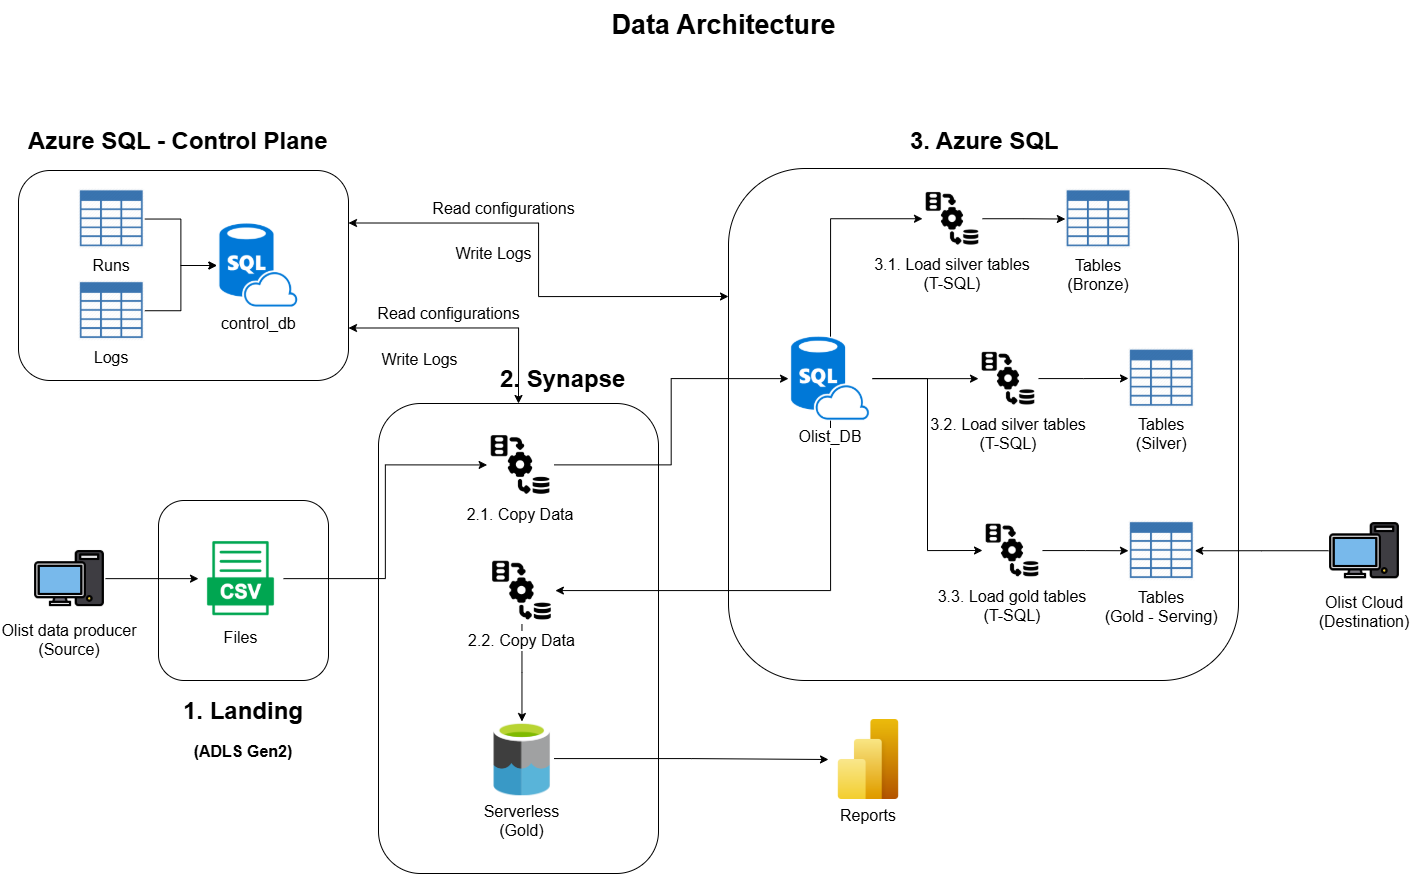
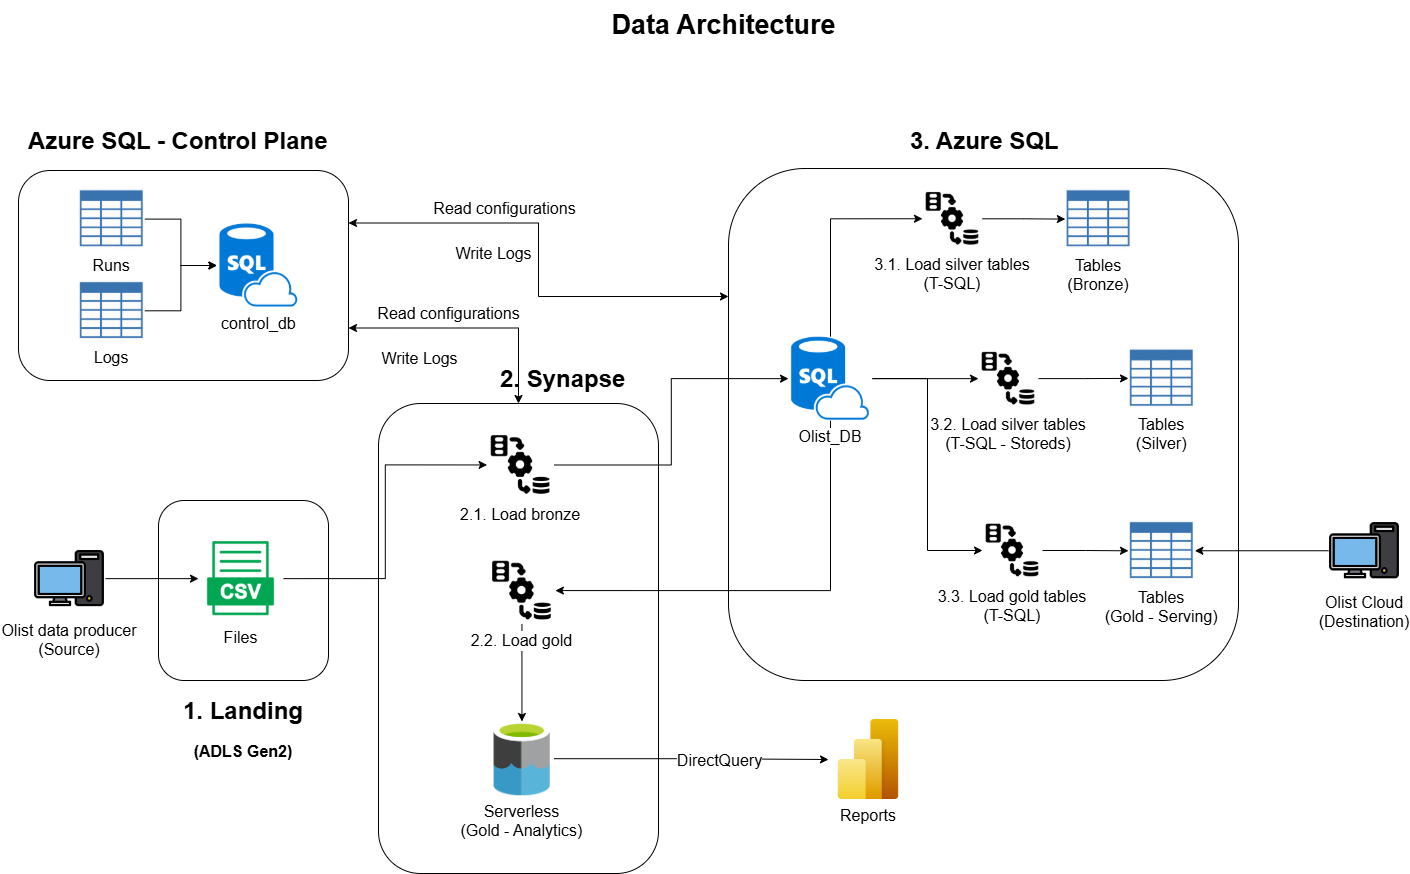
update README

diff --git a/azure_synapse/brazilian_e_commerce_azure_db/README.md b/azure_synapse/brazilian_e_commerce_azure_db/README.md
@@ -21,7 +21,7 @@ This architecture is designed for a business that receives **daily batch extract
 
 1. **E-commerce App** generates daily CSV extracts.
 2. Files are dropped into **ADLS Gen2 (Landing zone)**.
-3. On arrival, a **Synapse Data Pipeline** is triggered (event-based).
+3. A **Synapse Data Pipeline** is triggered based on an scheduled.
 4. Synapse performs loads raw data into **Azure SQL (Bronze)**.
 5. Transformations are executed in **Azure SQL** to produce:
    - `bronze` (raw, as received)
@@ -80,9 +80,9 @@ For BI and analytics, curated Gold is published to ADLS in columnar format (Parq
 * Cost-efficient, scalable analytics queries.
 * Clean interface for Power BI (DirectQuery) without managing dedicated pools.
 
-### 3.7. Event-triggered pipelines
+### 3.7. Scheduled-triggered pipelines
 
-Running the pipeline automatically when a file arrives:
+Running the pipeline based on an schedule:
 
 * Improves data freshness for reporting.
 * Prevents “someone forgot to run the job” failures.
@@ -105,3 +105,57 @@ Transformations are primarily relational (joins, deduplication, conformance, sta
 * Reinforces SQL optimization skills (indexes, query tuning).
 * Provides predictable serving performance for apps.
 * Keeps orchestration separate from transformation logic.
+
+## 4. Data Model Overview
+
+The data is made of a group of CSV files, where each one represents an entity:
+
+* Customers
+* Geolocation
+* Order_Items
+* Order_Payments
+* Order_Reviews
+* Orders
+* Products
+* Sellers
+
+## 5. Storage Layout (ADLS Gen2)
+
+The path where the input files are stored is: `raw/brazilian_e_commerce/<entity>/file_name.csv`. The name of the file does not follow any pre-defined value, because the pipeline reads all CSV files.
+
+## 6. Orchestration (Synapse Pipelines)
+
+Pipelines are desined like Data Factory:
+
+* **Trigger**: scheduled (once per day).
+* **Steps**:
+   1) Get Metadata (which entities to process) + initial / incremental execution.
+   2) Apply basic validations (file exists, size > 0).
+   3) Idempontency check (control table).
+   4) Copy to Azure SQL (Bronze).
+   5) Execute stored procedures (Bronze → Silver → Gold Serving).
+   6) Export Gold Analytics to ADLS (Parquet)
+
+## 7. Idempotency & Reprocessing
+
+Pipelines run **per entity folder** (e.g., `raw/orders/`) and ingest **all CSV files found** in that folder in a single execution (file names can be anything).
+
+* **On success:** processed files are **deleted** from the landing path.
+* **Incremental logic:** new arrivals are applied using **SCD Type 1 upserts**.
+* **Reruns:** safe to re-execute—data is **replaced/updated where applicable**.
+
+## 8. Serving & Consumption
+
+* **Applications:** read from `gold_serving` in Azure SQL (stable schema contracts).
+* **BI/Analytics:** query `gold_analytics` in ADLS through **Synapse SQL Serverless** views (Power BI DirectQuery or Import).
+
+## 9. Security & Access Control
+
+This project follows least-privilege access.
+
+* **Synapse Managed Identity** is used for all service-to-service access (no secrets).
+* **Azure SQL** uses schema-based permissions and database roles:
+  - ETL can write `bronze/silver/gold` and run stored procedures.
+  - Applications have read-only access to `gold` only.
+  - Bronze/Silver are not exposed to consumers.
+* **BI access** is provided via Synapse SQL Serverless curated views, not direct file paths.
